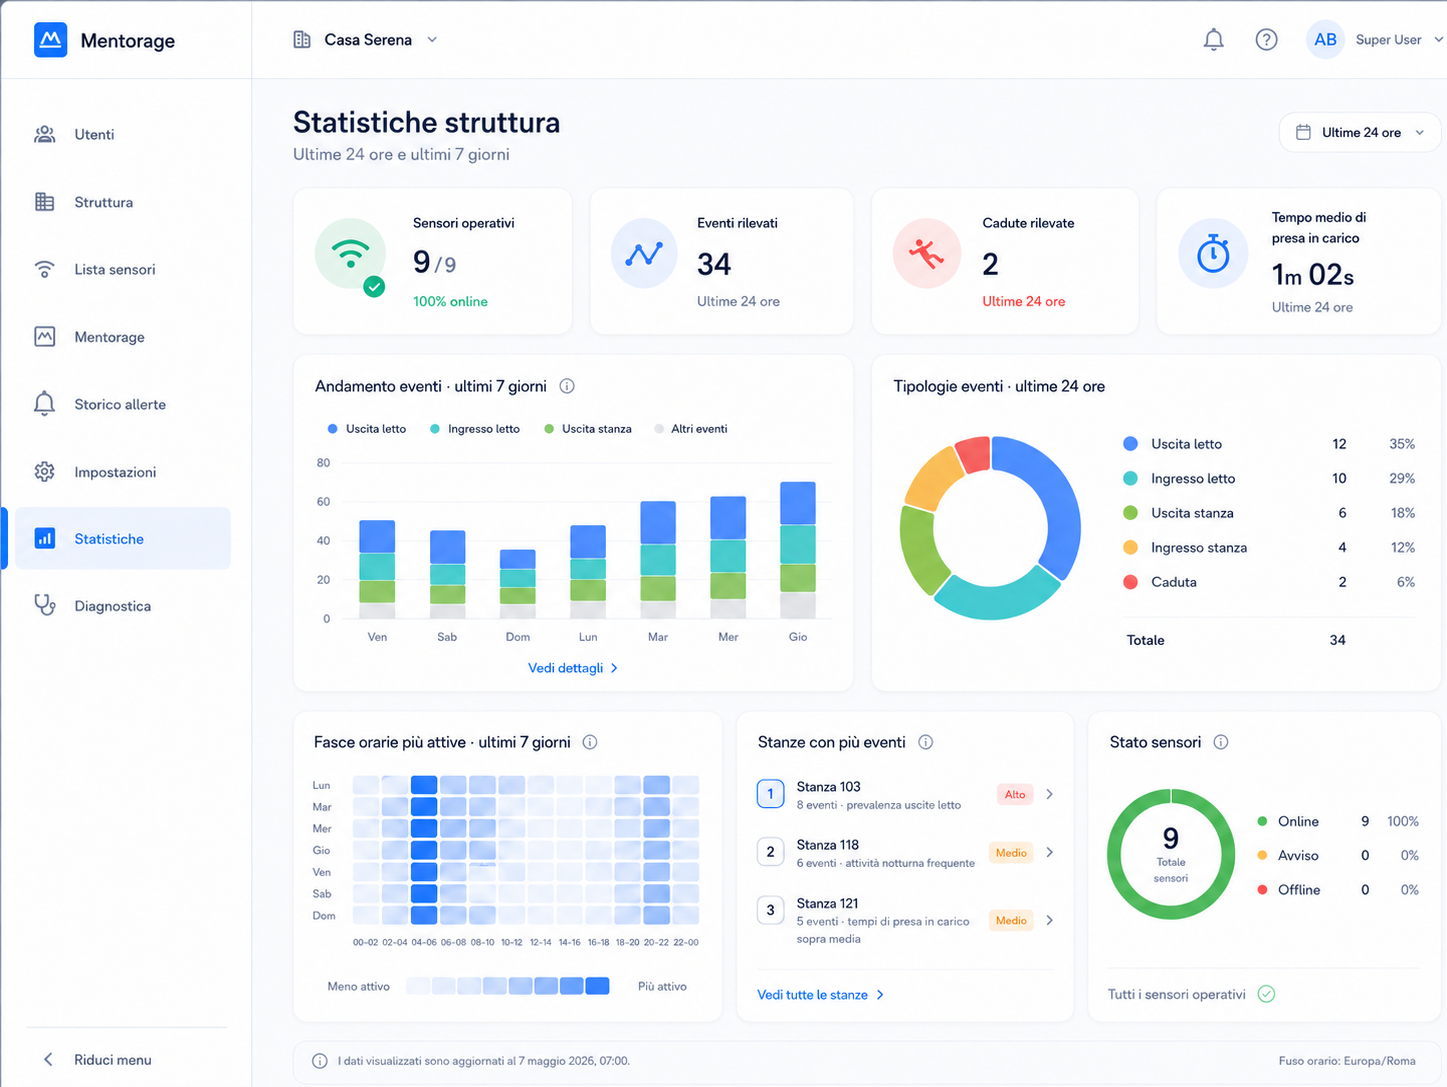
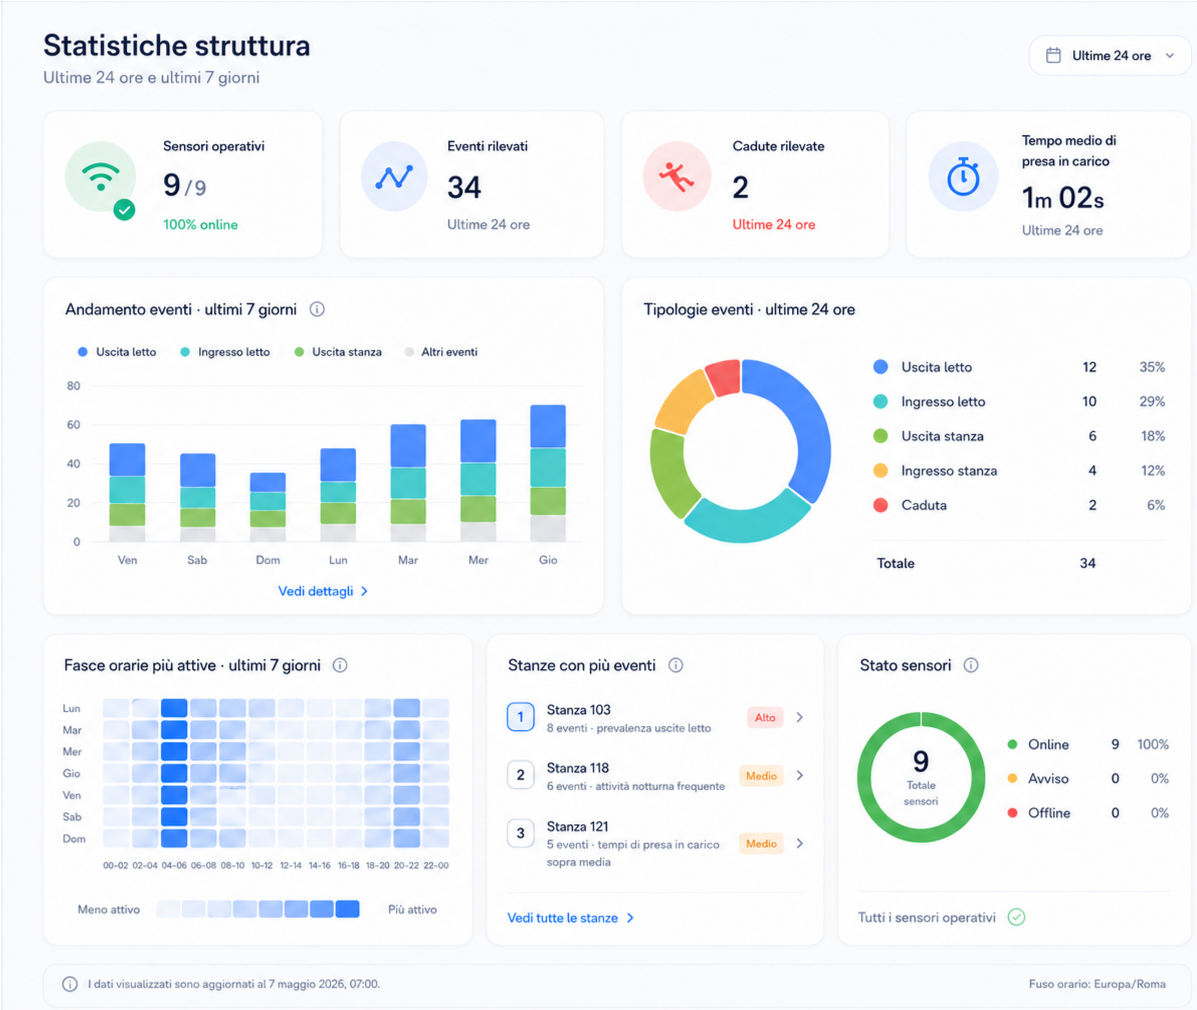
Improved product page

diff --git a/public/products.html b/public/products.html
@@ -38,6 +38,26 @@
 
   <main class="products-main" id="main">
     <div class="products-shell">
+      <section class="products-hero">
+        <div class="products-hero__content">
+          <div>
+            <p class="products-eyebrow">Portale Mentorage</p>
+            <h1 class="products-title">Una visione chiara della struttura, in un’unica schermata.</h1>
+            <p class="products-subtitle">Mentorage organizza stanze, alert ed eventi in un’interfaccia semplice, pensata
+              per aiutare il personale a capire rapidamente dove serve attenzione.</p>
+          </div>
+          <ul class="products-hero__points" aria-label="Punti chiave del portale Mentorage">
+            <li>Panoramica immediata della struttura</li>
+            <li>Alert evidenziati per priorità</li>
+            <li>Storico eventi e statistiche sempre accessibili</li>
+          </ul>
+        </div>
+        <div class="products-hero__media">
+          <video class="products-hero__video" playsinline autoplay muted loop preload="auto">
+            <source src="assets/BED_EXIT.mp4" type="video/mp4" />
+          </video>
+        </div>
+      </section>
       <section class="products-analytics-story" id="product-overview" aria-labelledby="products-analytics-title">
         <div class="products-analytics-story__panel">
           <div class="products-analytics-story__screen-grid" data-products-story-view="structure">
@@ -87,178 +107,6 @@
               <figcaption>Panoramica operativa della struttura: indicatori essenziali sempre sotto controllo.
               </figcaption>
             </figure>
-          </div>
-
-          <div class="products-analytics-story__bridge">
-            <span class="products-analytics-story__bridge-icon"></span>
-            <p>Quando serve approfondire, passi dal quadro generale al <strong>dettaglio del singolo ospite</strong>.
-            </p>
-          </div>
-
-          <div class="products-analytics-story__screen-grid products-analytics-story__screen-grid--guest">
-            <div class="products-analytics-story__notes products-analytics-story__notes--guest">
-              <div class="products-analytics-story__notes-intro">
-                <p class="products-eyebrow">Statistiche ospite</p>
-                <h3>Statistiche del singolo ospite, chiare e utili.</h3>
-                <p>Una sintesi completa della notte monitorata, con visualizzazioni intuitive che aiutano a comprendere
-                  il comportamento e l'andamento nel tempo.</p>
-              </div>
-              <article class="products-analytics-story__note products-analytics-story__note--compact">
-                <span class="products-analytics-story__note-icon products-analytics-story__note-icon--blue"></span>
-                <div>
-                  <h3>Tempo a letto</h3>
-                  <p>Quanto tempo l'ospite ha trascorso a letto durante il periodo monitorato.</p>
-                </div>
-              </article>
-              <article class="products-analytics-story__note products-analytics-story__note--compact">
-                <span class="products-analytics-story__note-icon products-analytics-story__note-icon--cyan"></span>
-                <div>
-                  <h3>Tempo seduto</h3>
-                  <p>Il tempo in cui l'ospite &egrave; rimasto seduto.</p>
-                </div>
-              </article>
-              <article class="products-analytics-story__note products-analytics-story__note--compact">
-                <span class="products-analytics-story__note-icon products-analytics-story__note-icon--green"></span>
-                <div>
-                  <h3>Tempo in piedi</h3>
-                  <p>Il tempo in cui l'ospite &egrave; stato in piedi o in movimento.</p>
-                </div>
-              </article>
-              <article class="products-analytics-story__note products-analytics-story__note--compact">
-                <span class="products-analytics-story__note-icon products-analytics-story__note-icon--violet"></span>
-                <div>
-                  <h3>Timeline notturna</h3>
-                  <p>Una linea temporale mostra i cambi di stato durante la notte, in modo immediato.</p>
-                </div>
-              </article>
-            </div>
-
-            <div class="products-app products-app--guest" aria-label="Schermata statistiche del singolo ospite">
-              <div class="products-app__window">
-                <div class="products-app__topbar products-app__topbar--guest">
-                  <button class="products-app__back" type="button">Indietro</button>
-                  <div class="products-app__guest-meta">
-                    <strong>Stanza 103</strong>
-                    <span>Antonio</span>
-                  </div>
-                  <span class="products-app__chip">ID sensore: MENT-0039</span>
-                </div>
-                <div class="products-app__content products-app__content--guest">
-                  <div class="products-app__content-head products-app__content-head--guest">
-                    <div>
-                      <h3>Statistiche notturne</h3>
-                      <p>6 Mag - 7 Mag 2025 &middot; Periodo di monitoraggio: 21:30 - 07:00</p>
-                    </div>
-                  </div>
-
-                  <div class="products-app__kpis products-app__kpis--guest">
-                    <article class="products-app__kpi products-app__kpi--sleep">
-                      <p>A letto</p>
-                      <strong>7h 12m</strong>
-                      <span>75,2% del tempo totale</span>
-                    </article>
-                    <article class="products-app__kpi products-app__kpi--cyan">
-                      <p>Seduto</p>
-                      <strong>1h 47m</strong>
-                      <span>18,5% del tempo totale</span>
-                    </article>
-                    <article class="products-app__kpi products-app__kpi--mint">
-                      <p>In piedi</p>
-                      <strong>0h 31m</strong>
-                      <span>6,3% del tempo totale</span>
-                    </article>
-                  </div>
-
-                  <article class="products-timeline">
-                    <div class="products-timeline__head">
-                      <h4>Timeline notturna</h4>
-                      <p>Cambi di stato lungo tutta la notte</p>
-                    </div>
-                    <div class="products-timeline__hours">
-                      <span>21:30</span>
-                      <span>22:30</span>
-                      <span>23:30</span>
-                      <span>00:30</span>
-                      <span>01:30</span>
-                      <span>02:30</span>
-                      <span>03:30</span>
-                      <span>04:30</span>
-                      <span>05:30</span>
-                      <span>06:30</span>
-                      <span>07:00</span>
-                    </div>
-                    <div class="products-timeline__track" aria-hidden="true">
-                      <span class="is-sleep" style="--span:3"></span>
-                      <span class="is-seat" style="--span:1"></span>
-                      <span class="is-sleep" style="--span:4"></span>
-                      <span class="is-stand" style="--span:1"></span>
-                      <span class="is-sleep" style="--span:5"></span>
-                      <span class="is-seat" style="--span:1"></span>
-                      <span class="is-sleep" style="--span:3"></span>
-                      <span class="is-stand" style="--span:1"></span>
-                      <span class="is-sleep" style="--span:2"></span>
-                    </div>
-                    <div class="products-timeline__legend">
-                      <span><i class="is-sleep"></i>A letto</span>
-                      <span><i class="is-seat"></i>Seduto</span>
-                      <span><i class="is-stand"></i>In piedi</span>
-                    </div>
-                  </article>
-
-                  <div class="products-app__charts products-app__charts--guest">
-                    <article class="products-card products-card--split">
-                      <div>
-                        <h4>Distribuzione attivit&agrave;</h4>
-                        <div class="products-chart-donut products-chart-donut--guest" aria-hidden="true"></div>
-                      </div>
-                      <ul class="products-chart-legend products-chart-legend--stats">
-                        <li><span class="swatch swatch--sleep"></span>A letto <strong>7h 12m</strong> <em>75,2%</em>
-                        </li>
-                        <li><span class="swatch swatch--seat"></span>Seduto <strong>1h 47m</strong> <em>18,5%</em></li>
-                        <li><span class="swatch swatch--stand"></span>In piedi <strong>0h 31m</strong> <em>6,3%</em>
-                        </li>
-                      </ul>
-                    </article>
-
-                    <article class="products-card">
-                      <h4>Riepilogo attivit&agrave;</h4>
-                      <div class="products-summary-bars">
-                        <div class="products-summary-bars__item">
-                          <div class="products-summary-bars__meta">
-                            <span>A letto</span>
-                            <strong>7h 12m</strong>
-                            <em>75,2%</em>
-                          </div>
-                          <div class="products-summary-bars__track"><span class="is-sleep" style="--value:75.2%"></span>
-                          </div>
-                        </div>
-                        <div class="products-summary-bars__item">
-                          <div class="products-summary-bars__meta">
-                            <span>Seduto</span>
-                            <strong>1h 47m</strong>
-                            <em>18,5%</em>
-                          </div>
-                          <div class="products-summary-bars__track"><span class="is-seat" style="--value:18.5%"></span>
-                          </div>
-                        </div>
-                        <div class="products-summary-bars__item">
-                          <div class="products-summary-bars__meta">
-                            <span>In piedi</span>
-                            <strong>0h 31m</strong>
-                            <em>6,3%</em>
-                          </div>
-                          <div class="products-summary-bars__track"><span class="is-stand" style="--value:6.3%"></span>
-                          </div>
-                        </div>
-                      </div>
-                    </article>
-                  </div>
-
-                  <p class="products-app__footnote">Le statistiche sono calcolate in base ai dati raccolti dai sensori e
-                    servono a offrire una lettura pi&ugrave; chiara del periodo monitorato.</p>
-                </div>
-              </div>
-            </div>
           </div>
 
           <div class="products-analytics-story__trust" aria-label="Punti chiave della piattaforma">

diff --git a/public/products.css b/public/products.css
@@ -159,11 +159,15 @@ img {
 }
 
 .products-shell {
-  max-width: 1280px;
+  max-width: 1400px;
   margin: 0 auto;
 }
 
 .products-hero {
+  display: grid;
+  grid-template-columns: minmax(320px, 0.74fr) minmax(0, 1.26fr);
+  gap: 20px;
+  align-items: stretch;
   padding: 26px 0 0;
 }
 
@@ -187,6 +191,56 @@ img {
 .products-capabilities__media img {
   width: 100%;
   height: auto;
+}
+
+.products-hero__content,
+.products-hero__media,
+.products-feature__media,
+.products-feature__panel,
+.products-story__card,
+.products-capabilities__frame {
+  border: 1px solid var(--border);
+  background: var(--surface);
+  box-shadow: var(--shadow);
+}
+
+.products-hero__content {
+  padding: 40px;
+  display: flex;
+  flex-direction: column;
+  justify-content: space-between;
+  min-height: 620px;
+  background:
+    radial-gradient(circle at top right, rgba(170, 190, 221, 0.12), transparent 34%),
+    #ffffff;
+}
+
+.products-hero__points {
+  list-style: none;
+  margin: 36px 0 0;
+  padding: 0;
+  display: grid;
+  gap: 14px;
+}
+
+.products-hero__points li {
+  padding: 0 0 14px;
+  border-bottom: 1px solid rgba(17, 24, 39, 0.08);
+  color: #0f172a;
+  font-size: 16px;
+  font-weight: 500;
+}
+
+.products-hero__media {
+  min-height: 620px;
+  overflow: hidden;
+}
+
+.products-hero__video {
+  width: 100%;
+  height: 100%;
+  object-fit: cover;
+  object-position: center;
 }
 
 .products-summary {
@@ -219,9 +273,9 @@ img {
 }
 
 .products-title {
-  font-size: clamp(44px, 6vw, 76px);
+  font-size: clamp(38px, 6vw, 42px);
   line-height: 0.96;
-  max-width: 9.4ch;
+  max-width: 14.7ch;
 }
 
 .products-subtitle,
@@ -430,7 +484,7 @@ img {
 }
 
 .products-footer__inner {
-  max-width: 1280px;
+  max-width: 1400px;
   margin: 0 auto;
   display: grid;
   grid-template-columns: minmax(220px, 0.8fr) minmax(0, 1.2fr);
@@ -489,7 +543,7 @@ img {
 }
 
 .products-footer__legal {
-  max-width: 1280px;
+  max-width: 1400px;
   margin: 48px auto 0;
   padding-top: 18px;
   border-top: 1px solid rgba(255, 255, 255, 0.1);

diff --git a/public/products-dashboard.css b/public/products-dashboard.css
@@ -5,10 +5,7 @@
 .products-analytics-story__panel {
   padding: 40px;
   border: 1px solid var(--border);
-  background:
-    radial-gradient(circle at top left, rgba(170, 190, 221, 0.15), transparent 26%),
-    radial-gradient(circle at top right, rgba(203, 219, 241, 0.18), transparent 22%),
-    rgba(255, 255, 255, 0.88);
+  background: #ffffff;
   box-shadow: var(--shadow);
 }
 
@@ -125,7 +122,7 @@
 }
 
 .products-analytics-story__notes-intro h3 {
-  max-width: 9ch;
+  max-width: 13ch;
 }
 
 .products-analytics-story__notes-intro p,
@@ -151,7 +148,6 @@
 .products-analytics-story__media img {
   width: 100%;
   height: auto;
-  border-radius: 22px;
   display: block;
 }
 

diff --git a/public/products.js b/public/products.js
@@ -34,6 +34,7 @@
   const noteTitleSecondary = document.querySelector('[data-products-story-note-title="secondary"]');
   const noteCopySecondary = document.querySelector('[data-products-story-note-copy="secondary"]');
   const noteIconSecondary = document.querySelector('[data-products-story-note-icon="secondary"]');
+  const storyImage = storyView ? storyView.querySelector('.products-analytics-story__media img') : null;
 
   const storyContent = {
     structure: {
@@ -47,6 +48,7 @@
         copy: 'Scendi nel dettaglio del singolo ospite per comprendere comportamenti e andamento notturno.',
         icon: 'products-analytics-story__note-icon--green',
       },
+      imageSrc: 'assets/mentorage-statistiche-struttura.png',
     },
     guest: {
       primary: {
@@ -59,6 +61,7 @@
         copy: 'Una sintesi ordinata della notte aiuta operatori e coordinatori a leggere subito cio che conta.',
         icon: 'products-analytics-story__note-icon--violet',
       },
+      imageSrc: 'assets/statistiche.png',
     },
   };
 
@@ -71,7 +74,7 @@
 
   const setStoryView = (view) => {
     const content = storyContent[view];
-    if (!content || !storyView || !noteTitlePrimary || !noteCopyPrimary || !noteIconPrimary || !noteTitleSecondary || !noteCopySecondary || !noteIconSecondary) {
+    if (!content || !storyView || !noteTitlePrimary || !noteCopyPrimary || !noteIconPrimary || !noteTitleSecondary || !noteCopySecondary || !noteIconSecondary || !storyImage) {
       return;
     }
 
@@ -87,6 +90,7 @@
     noteCopyPrimary.textContent = content.primary.copy;
     noteTitleSecondary.textContent = content.secondary.title;
     noteCopySecondary.textContent = content.secondary.copy;
+    storyImage.src = content.imageSrc;
 
     [noteIconPrimary, noteIconSecondary].forEach((icon) => {
       icon.classList.remove(...noteIconVariants);